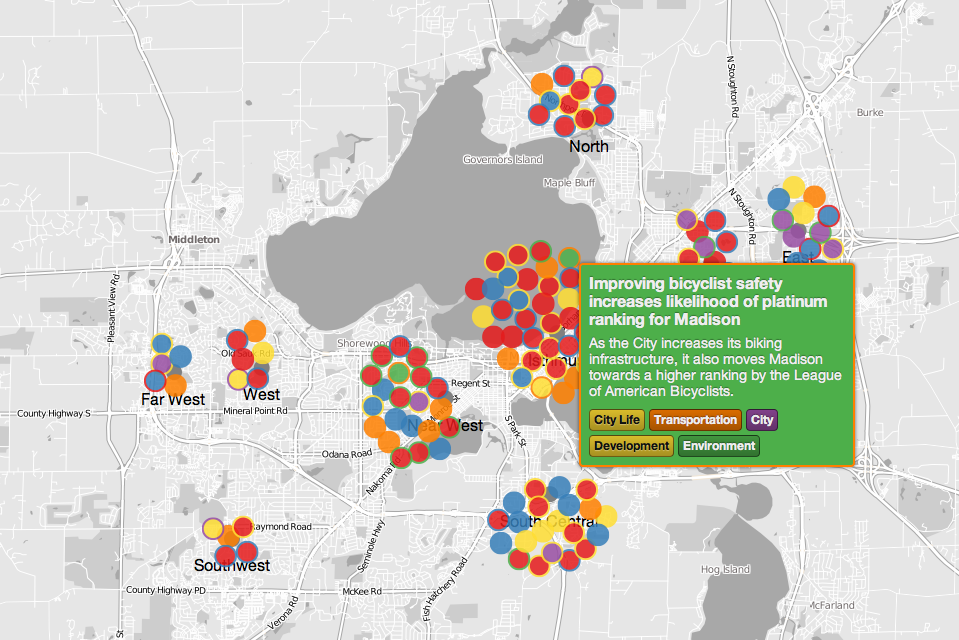
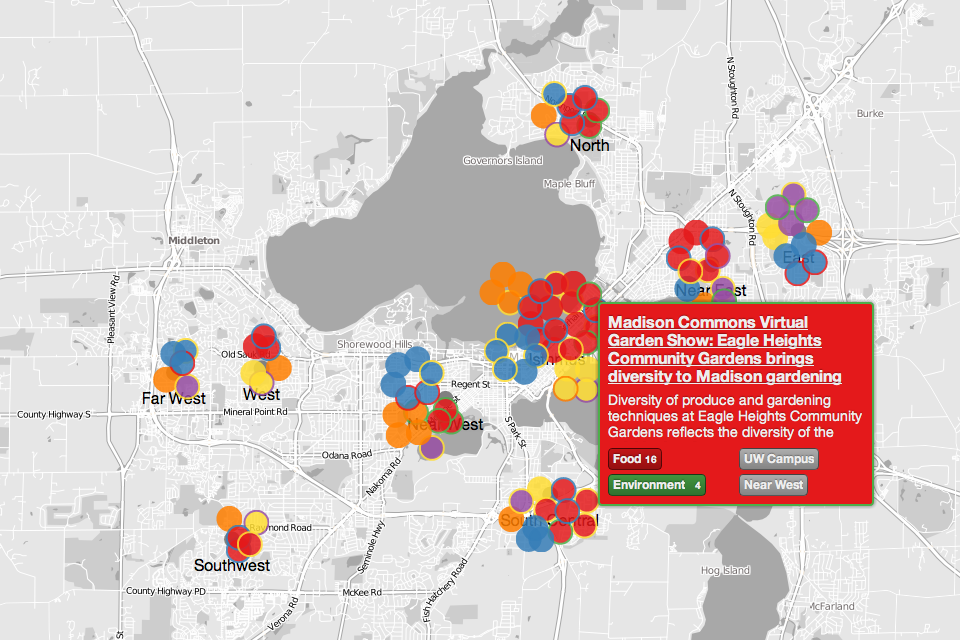
Added "good enough" article grouping/linkage.

diff --git a/js/locations.js b/js/locations.js
@@ -215,16 +215,74 @@ d3.xml("data/?src=locations&by=kml", function(xmlResult) {
             }
         }
         
+        // Second pass for links. Ugh.
+        for (var i = 0; i < json.children.length; i++) {
+            var loc = json.children[i];
+            
+            for (var j = 0; j < loc.children.length; j++) {
+                var child = loc.children[j];
+                var peers = loc.children;
+                
+                child.numLinks = 0;
+                
+                for (var k = 0; k < peers.length; k++) {
+                    var peer = peers[k];
+                    if (peer == child) continue;
+                    
+                    if (child.mostPopularTag.index == peer.mostPopularTag.index) {
+                        links.push({
+                            source: child,
+                            target: peer
+                        });
+                        child.numLinks++;
+                    } // else if (child.secondMostPopularTag.index == peer.secondMostPopularTag.index) {
+                     //                        links.push({
+                     //                            source: child,
+                     //                            target: peer
+                     //                        });
+                     //                    }
+                }
+            }
+        }
+        
+        function nodeLinkDistance(d,i) {
+            var totalNumLinks = d.source.numLinks + d.target.numLinks;
+            console.log(totalNumLinks);
+            if (totalNumLinks < 5) {
+                return 12;
+            } else if (totalNumLinks < 10) {
+                return 24;
+            } else if (totalNumLinks < 20) {
+                return 32;
+            } else if (totalNumLinks < 40) {
+                return 48;
+            } else {
+                return 54;
+            }
+            
+            // if (d.source.mostPopularTag.index == d.target.mostPopularTag.index && d.source.mostPopularTag.index == d.source.secondMostPopularTag.index && d.source.secondMostPopularTag.index == d.target.secondMostPopularTag.index) {
+            //     return 30;
+            // } else if (d.source.mostPopularTag.index == d.target.mostPopularTag.index && d.source.secondMostPopularTag.index == d.target.secondMostPopularTag.index) {
+            //     return 40;
+            // } else if (d.source.mostPopularTag.index == d.target.mostPopularTag.index) {
+            //     return 50;
+            // } else if (d.source.secondMostPopularTag.index == d.target.secondMostPopularTag.index) {
+            //     return 60;
+            // } else {
+            //     return 120;
+            // }
+        }
+        
         // var nodes = d3.range(150).map(Object);
         
         // Force Layout Visualization
         var vis = layer;
         
-        var fill = d3.scale.category10();
-        
         force = d3.layout.force()
             .nodes(nodes)
             .links(links)
+            .linkDistance(nodeLinkDistance)
+            // .linkStrength(nodeLinkStrength)
             .size([window.innerWidth, window.innerHeight])
             .charge(-16)
             // .gravity(0)
@@ -234,12 +292,13 @@ d3.xml("data/?src=locations&by=kml", function(xmlResult) {
             .data(nodes)
             .enter().append("svg:circle")
             .attr("class", "node")
-            .attr("r", "0.65em")
+            .attr("r", "0.75em")
             .attr("cx", function(d, i) { return d.x; })
             .attr("cy", function(d, i) { return d.y; })
             .style("fill", function(d, i) { return tagColors[d.mostPopularTag.index]; })
             .style("stroke", function(d, i) { return tagColors[d.secondMostPopularTag.index]; })
             .style("opacity", 0.85)
+            .call(force.drag)
             .on("mouseover", function(d,i) {
                 // Don't do anything if the huge popover is active or if we're not supposed to move the popover.
                 if (d3.select("#popover").classed("huge")) return;
@@ -266,7 +325,7 @@ d3.xml("data/?src=locations&by=kml", function(xmlResult) {
                     .append("a")
                     .html(d.name)
                     .attr("onclick", "window.open('http://madisoncommons.org/?q=node/" + d.nid + "'); return false;");
-                ;
+                
                 d3.select("#popoverContent").html(strip(d.teaser));
                 d3.selectAll("#popoverTags, #popoverLocations").html("");
                 
@@ -283,7 +342,7 @@ d3.xml("data/?src=locations&by=kml", function(xmlResult) {
                         .attr("title", tag.desc)
                 }
                 
-                console.log(d.locations);
+                // console.log(d.locations);
                 
                 // Add locations to popover
                 for (var i = 0; i < d.locations.length; i++) {
@@ -312,7 +371,11 @@ d3.xml("data/?src=locations&by=kml", function(xmlResult) {
                     // window.open("http://madisoncommons.org/?q=node/" + d.nid);
                 } else {
                     d3.select("#popover").classed("shown", false).classed("huge", true);
-                    d3.select("#popoverTitle").html(d.name);
+                    d3.select("#popoverTitle").html("")
+                        .append("a")
+                        .html(d.name)
+                        .attr("onclick", "window.open('http://madisoncommons.org/?q=node/" + d.nid + "'); return false;");
+                    
                     d3.select("#popoverContent").html("<div id=\"iframeContainer\"><iframe src=\"http://madisoncommons.org/?q=node/" + d.nid + "#content\"><a href=\"http://madisoncommons.org/?q=node/" + d.nid + "\">" + d.name + "</a></iframe></div>");
                     // window.open("http://madisoncommons.org/?q=node/" + d.nid);
                 }

diff --git a/css/style.css b/css/style.css
@@ -328,14 +328,18 @@ circle#userLocation {
   color: inherit;
   text-decoration: underline;
 }
-/* line 112, ../sass/style.scss */
+/* line 111, ../sass/style.scss */
+#popover h2 a[onclick] {
+  cursor: pointer;
+}
+/* line 116, ../sass/style.scss */
 #popover #popoverContent {
   font-size: 14px;
   line-height: 16px;
   height: 64px;
   overflow: hidden;
 }
-/* line 119, ../sass/style.scss */
+/* line 123, ../sass/style.scss */
 #popover #popoverTags, #popover #popoverLocations {
   background: inherit;
   max-height: 52px;
@@ -347,7 +351,7 @@ circle#userLocation {
   float: left;
   overflow: hidden;
 }
-/* line 129, ../sass/style.scss */
+/* line 133, ../sass/style.scss */
 #popover #popoverTags a, #popover #popoverLocations a {
   text-shadow: 0 -1px 1px rgba(0, 0, 0, 0.35);
   color: #eee;
@@ -375,7 +379,7 @@ circle#userLocation {
   background-color: #ccc;
   text-decoration: none;
 }
-/* line 147, ../sass/style.scss */
+/* line 151, ../sass/style.scss */
 #popover #popoverTags a:hover, #popover #popoverLocations a:hover {
   background-image: -webkit-gradient(linear, 50% 0%, 50% 100%, color-stop(0%, rgba(0, 0, 0, 0.25)), color-stop(100%, rgba(0, 0, 0, 0.5)));
   background-image: -webkit-linear-gradient(top, rgba(0, 0, 0, 0.25) 0%, rgba(0, 0, 0, 0.5) 100%);
@@ -384,7 +388,7 @@ circle#userLocation {
   background-image: -ms-linear-gradient(top, rgba(0, 0, 0, 0.25) 0%, rgba(0, 0, 0, 0.5) 100%);
   background-image: linear-gradient(top, rgba(0, 0, 0, 0.25) 0%, rgba(0, 0, 0, 0.5) 100%);
 }
-/* line 151, ../sass/style.scss */
+/* line 155, ../sass/style.scss */
 #popover #popoverTags a span.name, #popover #popoverLocations a span.name {
   white-space: nowrap;
   overflow: hidden;
@@ -393,7 +397,7 @@ circle#userLocation {
   max-width: 90px;
   text-align: left;
 }
-/* line 160, ../sass/style.scss */
+/* line 164, ../sass/style.scss */
 #popover #popoverTags a span.count, #popover #popoverLocations a span.count {
   text-align: right;
   width: 12px;
@@ -401,22 +405,22 @@ circle#userLocation {
   float: right;
   margin-left: 4px;
 }
-/* line 170, ../sass/style.scss */
+/* line 174, ../sass/style.scss */
 #popover #popoverLocations {
   left: auto;
   right: 8px;
 }
-/* line 174, ../sass/style.scss */
+/* line 178, ../sass/style.scss */
 #popover #popoverLocations a span.name {
   max-width: 112px;
 }
 
-/* line 180, ../sass/style.scss */
+/* line 184, ../sass/style.scss */
 #popover.shown {
   opacity: 1;
 }
 
-/* line 184, ../sass/style.scss */
+/* line 188, ../sass/style.scss */
 #popover.huge {
   opacity: 1;
   width: auto;
@@ -437,11 +441,11 @@ circle#userLocation {
   border-left: 0;
   border-right: 0;
 }
-/* line 201, ../sass/style.scss */
+/* line 205, ../sass/style.scss */
 #popover.huge #popoverTags a span.name, #popover.huge #popoverLocations a span.name {
   max-width: 100%;
 }
-/* line 206, ../sass/style.scss */
+/* line 210, ../sass/style.scss */
 #popover.huge h2 {
   line-height: 30px;
   text-align: center;
@@ -451,7 +455,7 @@ circle#userLocation {
   top: 8px;
   margin: auto;
 }
-/* line 216, ../sass/style.scss */
+/* line 220, ../sass/style.scss */
 #popover.huge #iframeContainer {
   position: absolute;
   left: 0;
@@ -461,32 +465,32 @@ circle#userLocation {
   margin: auto;
   outline: 1px solid rgba(0, 0, 0, 0.5);
 }
-/* line 224, ../sass/style.scss */
+/* line 228, ../sass/style.scss */
 #popover.huge #iframeContainer iframe {
   width: 100%;
   height: 100%;
   background: #fff;
 }
-/* line 231, ../sass/style.scss */
+/* line 235, ../sass/style.scss */
 #popover.huge #closePopover {
   display: block;
 }
 
-/* line 238, ../sass/style.scss */
+/* line 242, ../sass/style.scss */
 footer #showCredits, footer img {
   position: absolute;
   left: 8px;
   bottom: 8px;
   z-index: 2;
 }
-/* line 244, ../sass/style.scss */
+/* line 248, ../sass/style.scss */
 footer img {
   height: 48px;
   width: 263px;
   opacity: 0.65;
   cursor: pointer;
 }
-/* line 250, ../sass/style.scss */
+/* line 254, ../sass/style.scss */
 footer #showCredits {
   background: url('../img/help.png?1336980389') no-repeat center;
   text-indent: -9999px;

diff --git a/sass/style.scss b/sass/style.scss
@@ -107,6 +107,10 @@ circle#userLocation {
             color: inherit;
             text-decoration: underline;
         }
+        
+        a[onclick] {
+            cursor: pointer;
+        }
     }
     
     #popoverContent {
